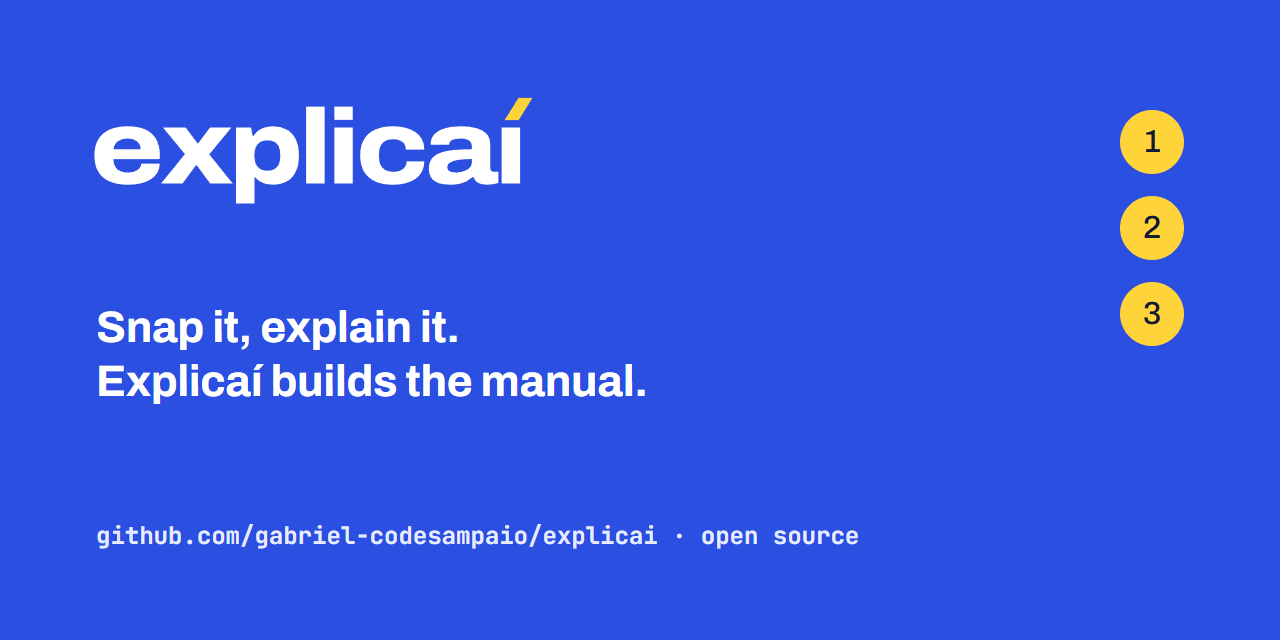
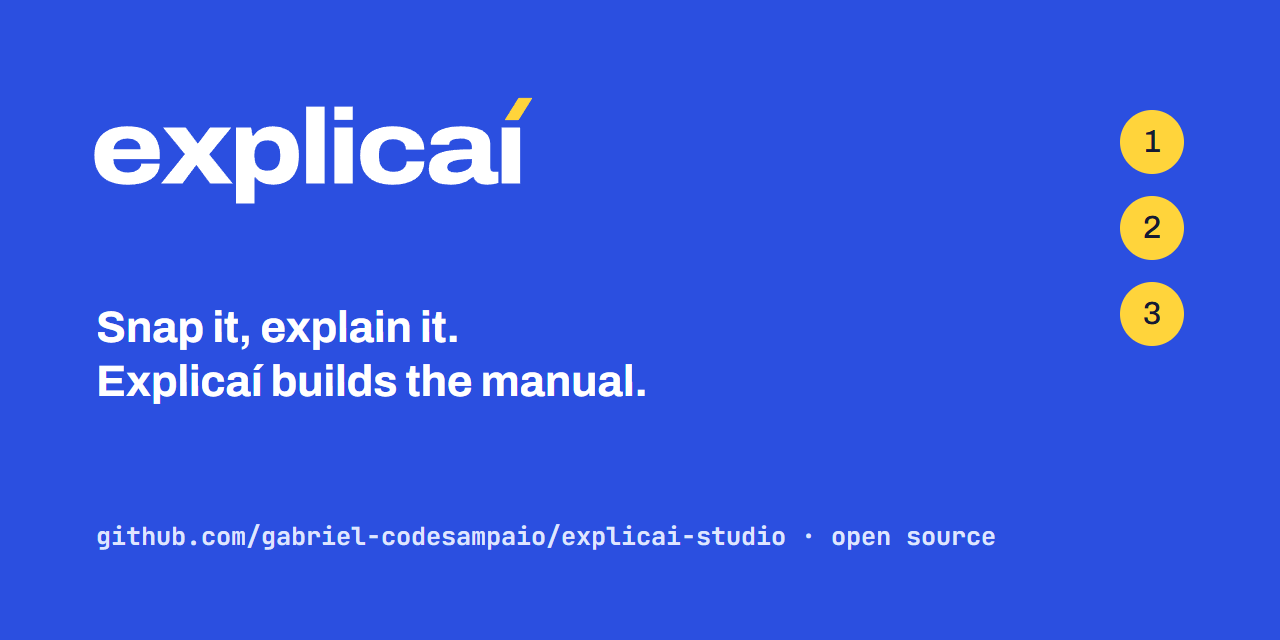
fix(site): endereço certo do repositório nas imagens de compartilhamento / correct repo URL in share images (#1)
* fix(site): endereço certo do repositório nas imagens de compartilhamento

As imagens mostravam github.com/gabriel-codesampaio/explicai; o repositório é explicai-studio.

* docs(tickets): fecha T-010 e T-011

---------

Changed region(s): [[0.0625, 0.8125, 0.7812, 0.875]]

diff --git a/docs/tickets/README.md b/docs/tickets/README.md
@@ -10,8 +10,6 @@ Ticket fechado (feito ou descartado) vai para `fechados/` com `git mv`.
 
 | ID | Título | Prioridade | Status | Agente |
 |----|--------|------------|--------|--------|
-| [T-010](T-010-imagens-de-compartilhamento-mostram-github-co.md) | Imagens de compartilhamento mostram github.com/gabriel-codesampaio/explicai | P3 | aberto | design |
-| [T-011](T-011-configurar-os-repositorios-no-github-descrica.md) | Configurar os repositórios no GitHub (descrição, homepage, topics, README) | P2 | aberto | design |
 
 ## Fechados
 
@@ -26,3 +24,5 @@ Ticket fechado (feito ou descartado) vai para `fechados/` com `git mv`.
 | [T-007](fechados/T-007-titulo-aberto-de-verdade-soa-como-slogan.md) | Título "Aberto de verdade." soa como slogan | P3 | feito | 7479c8b |
 | [T-008](fechados/T-008-lead-do-heroi-repete-a-meta-description.md) | Lead do herói repete a meta description | P3 | feito | 0275d29 |
 | [T-009](fechados/T-009-prints-do-produto-com-fundo-branco-no-tema-es.md) | Prints do produto com fundo branco no tema escuro | P3 | descartado | - |
+| [T-010](fechados/T-010-imagens-de-compartilhamento-mostram-github-co.md) | Imagens de compartilhamento mostram github.com/gabriel-codesampaio/explicai | P3 | feito | 6ccf97e |
+| [T-011](fechados/T-011-configurar-os-repositorios-no-github-descrica.md) | Configurar os repositórios no GitHub (descrição, homepage, topics, README) | P2 | feito | - |

diff --git a/docs/tickets/fechados/T-011-configurar-os-repositorios-no-github-descrica.md b/docs/tickets/fechados/T-011-configurar-os-repositorios-no-github-descrica.md
@@ -1,0 +1,22 @@
+# T-011: Configurar os repositórios no GitHub (descrição, homepage, topics, README)
+
+- Prioridade: P2
+- Tamanho: P
+- Status: feito
+- Agente: design
+- Origem: Pedido da pessoa 2026-11-03
+
+## Problema
+Os repositórios explicai-website e explicai-studio precisam de metadados completos e bilíngues antes de publicar. O gh não está autenticado nesta máquina.
+
+## Critérios de aceite
+- [x] explicai-website: description bilíngue, homepage com a URL do Pages, topics, social preview e README com link para o site. explicai-studio: description bilíngue, homepage com a landing, topics. Sem ligar o Pages no studio.
+
+## Onde
+gh repo edit (sem mexer em package.json nem nos arquivos do explicai).
+
+## Como verificar
+`gh repo view --json description,homepageUrl,repositoryTopics`.
+
+## Registro
+gh repo edit feito em 2026-11-03: explicai-website (description bilíngue, homepage = Pages, 8 topics) e explicai-studio (description bilíngue, homepage = landing, 12 topics). Pages do studio não ligado, de propósito. Social preview não tem API: upload manual de site/img/social-preview.png em Settings > Social preview.

diff --git a/docs/tickets/fechados/T-010-imagens-de-compartilhamento-mostram-github-co.md b/docs/tickets/fechados/T-010-imagens-de-compartilhamento-mostram-github-co.md
@@ -2,7 +2,7 @@
 
 - Prioridade: P3
 - Tamanho: P
-- Status: aberto
+- Status: feito
 - Agente: design
 - Origem: Achado ao entregar o T-004
 
@@ -10,7 +10,7 @@
 O endereço escrito nas duas imagens (pt e en) não é o do repositório, que é gabriel-codesampaio/explicai-studio.
 
 ## Critérios de aceite
-- [ ] As duas imagens mostram o endereço certo do repositório (ou o do site).
+- [x] As duas imagens mostram o endereço certo do repositório (ou o do site).
 
 ## Onde
 site/img/social-preview.png, site/img/social-preview-en.png.
@@ -19,4 +19,4 @@ site/img/social-preview.png, site/img/social-preview-en.png.
 Abrir as imagens.
 
 ## Registro
-<!-- preenchido ao fechar: commit, o que foi feito, o que ficou de fora -->
+Commit: 6ccf97e. Texto redesenhado nas duas imagens (Archivo e JetBrains Mono do site), só o endereço mudou.
